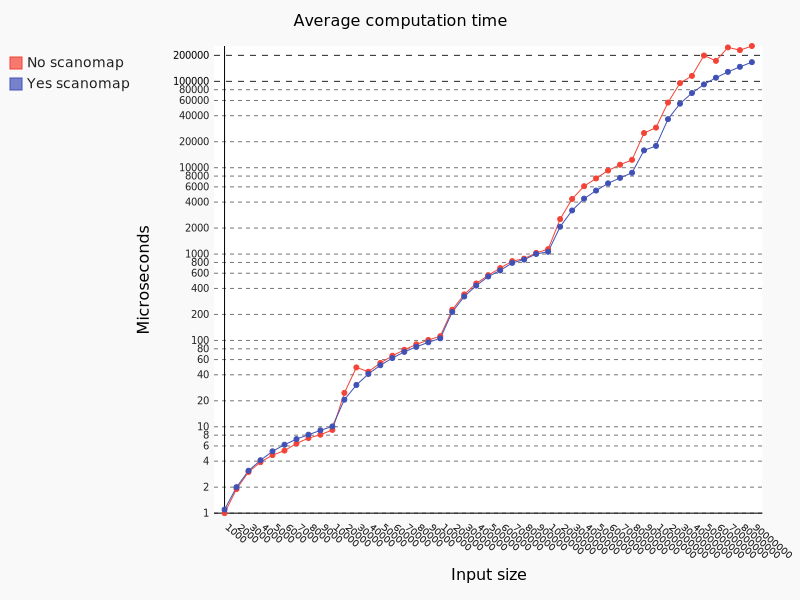
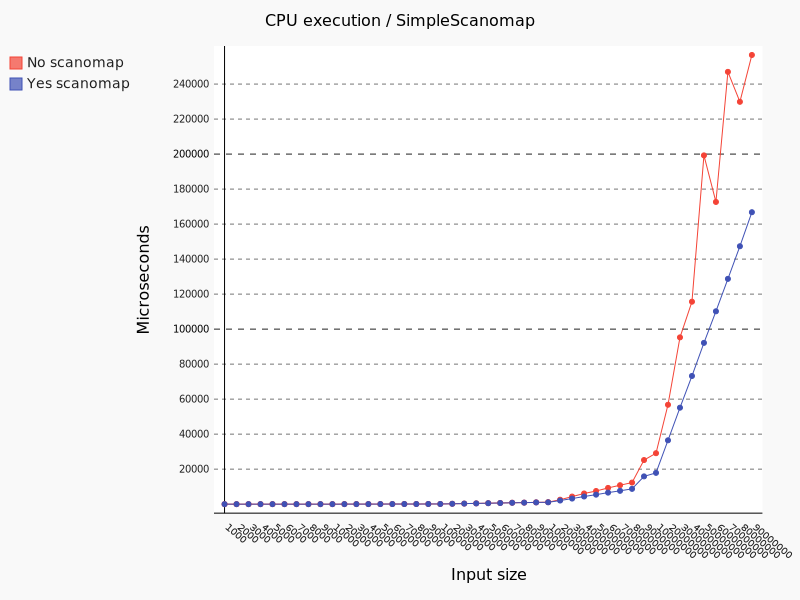
new images

diff --git a/Graph creator/graph.py b/Graph creator/graph.py
@@ -37,15 +37,15 @@ comparing_Results = []
 for i in range(0, len(average_data)):
 	comparing_Results.append(average_data[i] / average_data_yes[i])
 
-line_chart = pygal.Line(logarithmic=True, x_label_rotation=40, x_title='Input size', y_title='Microseconds')
+line_chart = pygal.Line(x_label_rotation=40, x_title='Input size', y_title='Microseconds')
 line_chart.x_labels = map(str, sorted_keys)
-line_chart.title = 'Average computation time'
+line_chart.title = 'GPU execution / SimpleScanomap'
 line_chart.add("No scanomap", average_data)
 line_chart.add("Yes scanomap", average_data_yes)
 line_chart.render_to_png('../images/chart.png')
 
-line_chart = pygal.Bar(x_label_rotation=40, x_title='Input size', y_title='Percentage increase')
-line_chart.title = 'Computation speedup'
+line_chart = pygal.Bar(x_label_rotation=40, x_title='Input size', y_title='Speedup')
+line_chart.title = 'GPU / SimpleScanomap Speedup'
 line_chart.x_labels = map(str, sorted_keys)
 line_chart.add('Result', comparing_Results)
 line_chart.render()
@@ -90,15 +90,15 @@ comparing_Results = []
 for i in range(0, len(average_data)):
 	comparing_Results.append(average_data[i] / average_data_yes[i])
 
-line_chart = pygal.Line(logarithmic=True, x_label_rotation=40, x_title='Input size', y_title='Microseconds')
+line_chart = pygal.Line(x_label_rotation=40, x_title='Input size', y_title='Microseconds')
 line_chart.x_labels = map(str, sorted_keys)
-line_chart.title = 'Average computation time'
+line_chart.title = 'CPU execution / SimpleScanomap'
 line_chart.add("No scanomap", average_data)
 line_chart.add("Yes scanomap", average_data_yes)
 line_chart.render_to_png('../images/futhark-c-chart.png')
 
-line_chart = pygal.Bar(range=(1, 3), x_label_rotation=40, x_title='Input size', y_title='Percentage increase')
-line_chart.title = 'Computation speedup'
+line_chart = pygal.Bar(range=(1, 3), x_label_rotation=40, x_title='Input size', y_title='Speedup')
+line_chart.title = 'CPU SimpleScanomap speedup'
 line_chart.x_labels = map(str, sorted_keys)
 line_chart.add('Result', comparing_Results)
 line_chart.render()
@@ -140,10 +140,9 @@ comparing_Results = []
 for i in range(0, len(average_data)):
 	comparing_Results.append(average_data[i] / average_data_yes[i])
 
-print np.average(comparing_Results)
 
-line_chart = pygal.Bar(range=(1,3),x_label_rotation=40, x_title='Input size', y_title='times increased')
-line_chart.title = 'Computation speedup'
+line_chart = pygal.Bar(range=(1,3),x_label_rotation=40, x_title='Input size', y_title='Speedup')
+line_chart.title = 'GPU Radix Speedup'
 line_chart.x_labels = map(str, sorted_keys)
 line_chart.add('Result', comparing_Results)
 line_chart.render()
@@ -202,8 +201,11 @@ for i in range(0, len(average_noFusion_data)):
 	comparing_Results_without_hori.append(average_noFusion_data[i] / average_data_noHorri[i])
 	comparing_Results_with_hori.append(average_noFusion_data[i] / average_data_all_yes[i])
 
-line_chart = pygal.Bar(range=(1,3),x_label_rotation=40, x_title='Input size', y_title='times increased')
-line_chart.title = 'Computation speedup'
+print np.average(comparing_Results_with_hori)
+print np.average(comparing_Results_without_hori)
+
+line_chart = pygal.Bar(range=(1,3),x_label_rotation=40, x_title='Input size', y_title='Speedup')
+line_chart.title = 'GPU Scanomap-Scanomap speedup'
 line_chart.x_labels = map(str, sorted_keys)
 line_chart.add('No Horizontal', comparing_Results_without_hori)
 line_chart.add('Horizontal', comparing_Results_with_hori)
